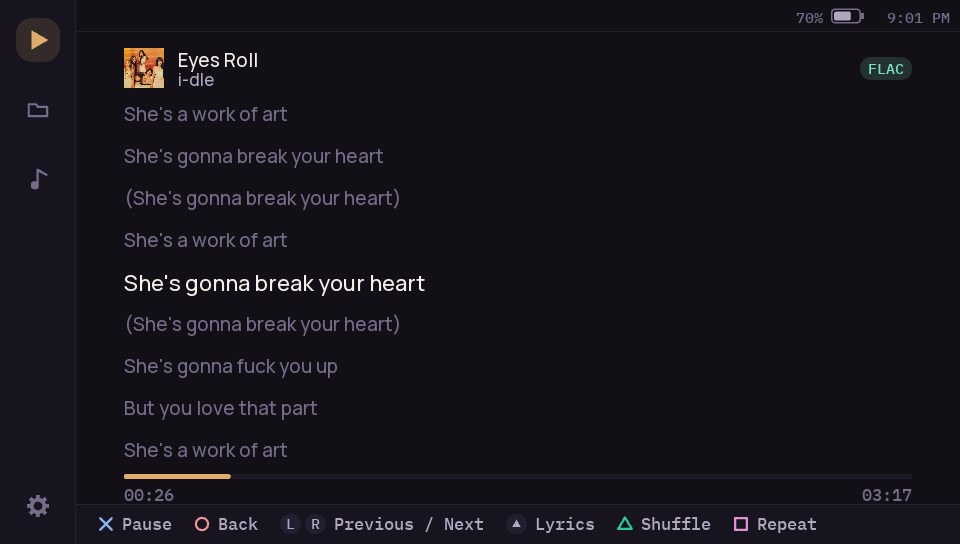
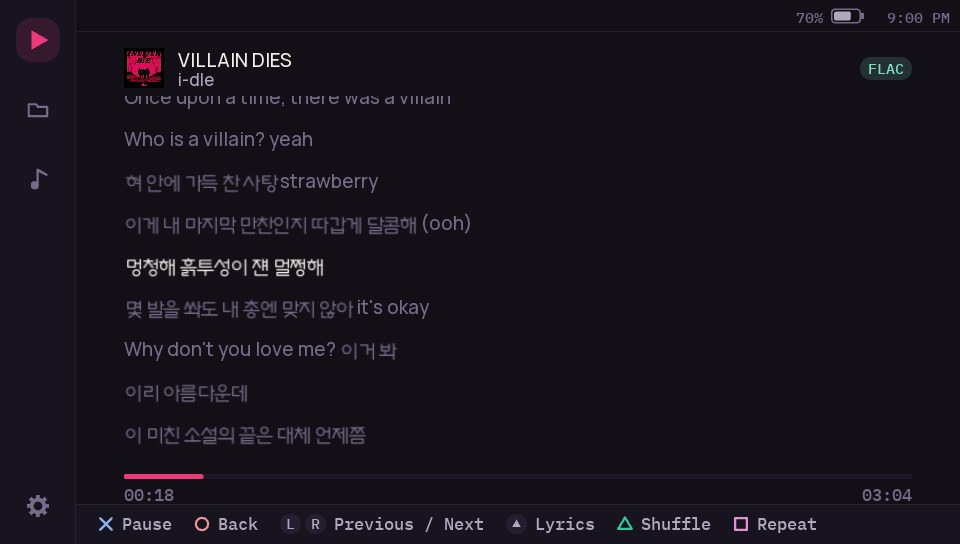
Use the VILLAIN DIES lyrics screenshot

Changed region(s): [[0.125, 0.0625, 0.5, 0.9062], [0.9375, 0.9062, 0.9688, 0.9375], [0.0312, 0.0625, 0.0625, 0.0938]]

diff --git a/openspec/changes/refresh-readme-media/design.md b/openspec/changes/refresh-readme-media/design.md
@@ -46,7 +46,7 @@ Esta es la selección de la 3.5: dos columnas, cuatro filas, cada una con su tex
 | `now-playing-cyan.jpg` | `2026-10-08-210215.jpg` | Now playing, acento cian (Wish) |
 | `now-playing-green.jpg` | `2026-10-08-210313.jpg` | Now playing, acento verde (Wanna Go Back) |
 | `now-playing-blue.jpg` | `2026-10-08-210343.jpg` | Now playing, acento azul (Supernatural) |
-| `lyrics.jpg` | `2026-10-08-210158.jpg` | Letras sincronizadas (Eyes Roll) |
+| `lyrics.jpg` | `2026-10-08-210059.jpg` | Letras sincronizadas en coreano e inglés (VILLAIN DIES) |
 | `library-artist-mini-player.jpg` | `2026-10-08-210204.jpg` | Dentro de un artista, con el mini player |
 | `folders-lrc.jpg` | `2026-10-08-205955.jpg` | Navegador de carpetas con los `.lrc` |
 | `settings-playback.jpg` | `2026-10-08-205938.jpg` | Ajustes, qué hacer al terminar un álbum |
